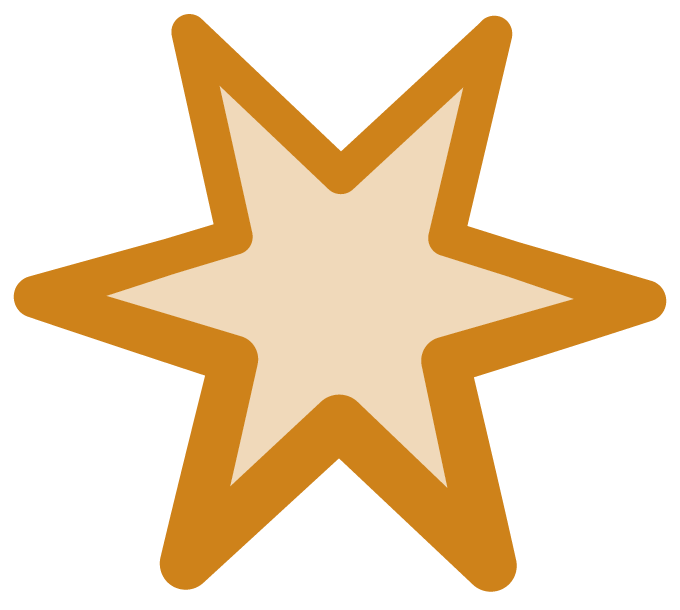
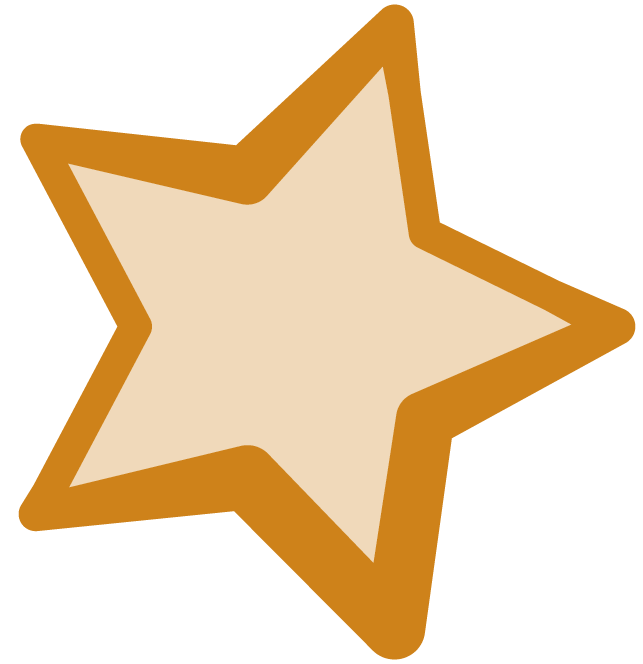
Se cambia la estrella y se cambian la velocidad de las nubes

diff --git a/css/animations.css b/css/animations.css
@@ -45,19 +45,19 @@
  
 .nubes:nth-child(1)
 {
-     animation: aparece-izquierda ease 15s infinite; 
+     animation: aparece-izquierda ease 22s infinite; 
 }
 .nubes:nth-child(2)
 {
-     animation: aparece-izquierda ease 17s infinite; 
+     animation: aparece-izquierda ease 25s infinite; 
 }
 .nubes:nth-child(3)
 {
-     animation: aparece-izquierda ease 9s infinite; 
+     animation: aparece-izquierda ease 17s infinite; 
 }
 .nubes:nth-child(4)
 {
-     animation: aparece-izquierda ease 10s infinite; 
+     animation: aparece-izquierda ease 23s infinite; 
 }
 .nubes:nth-child(5)
 {
